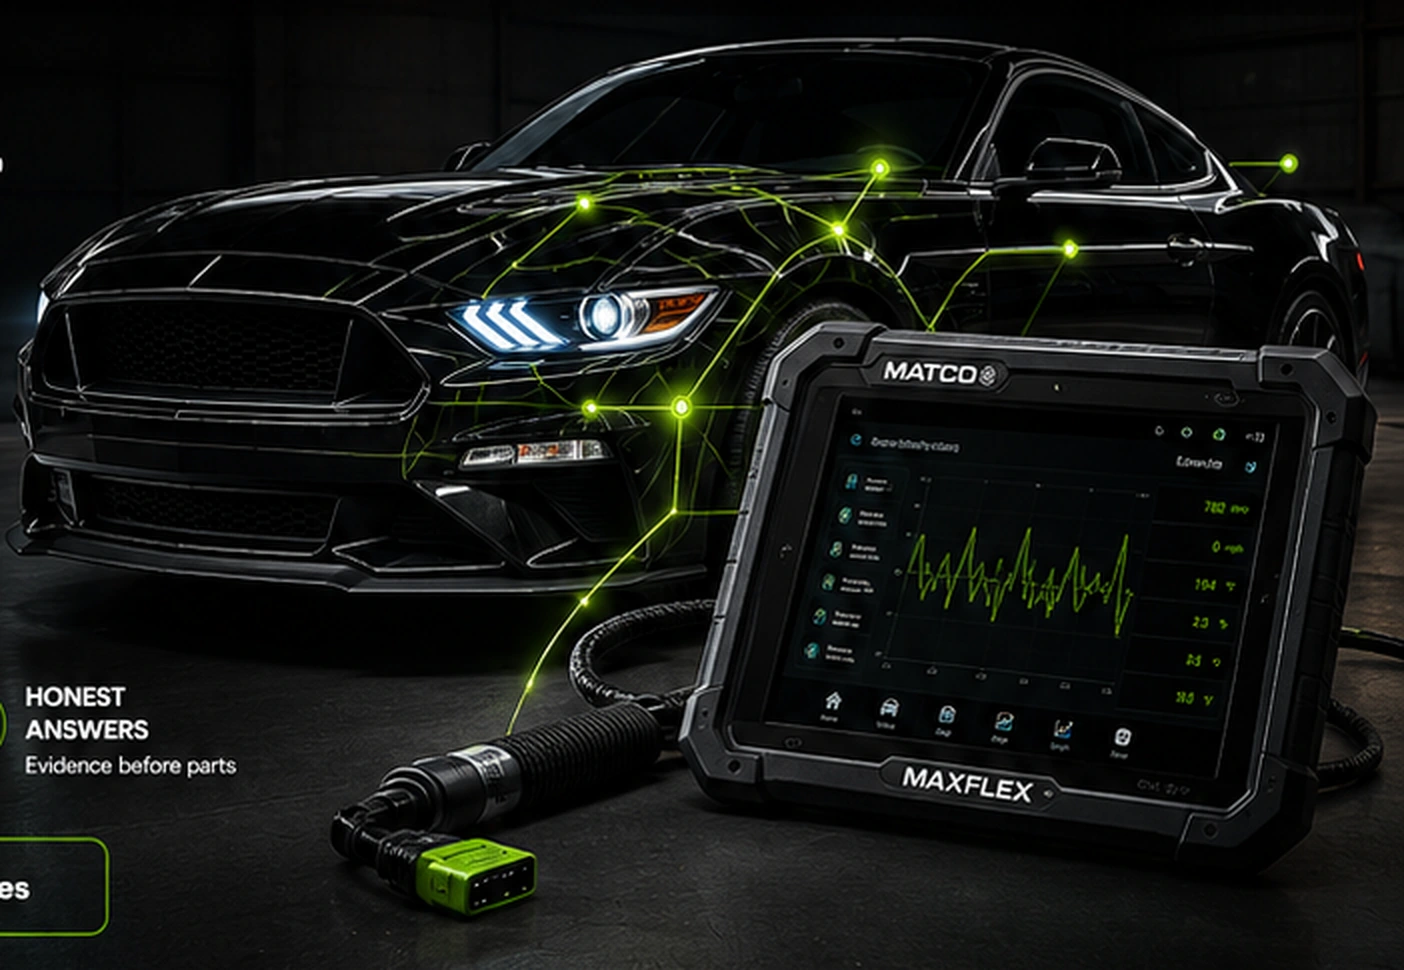
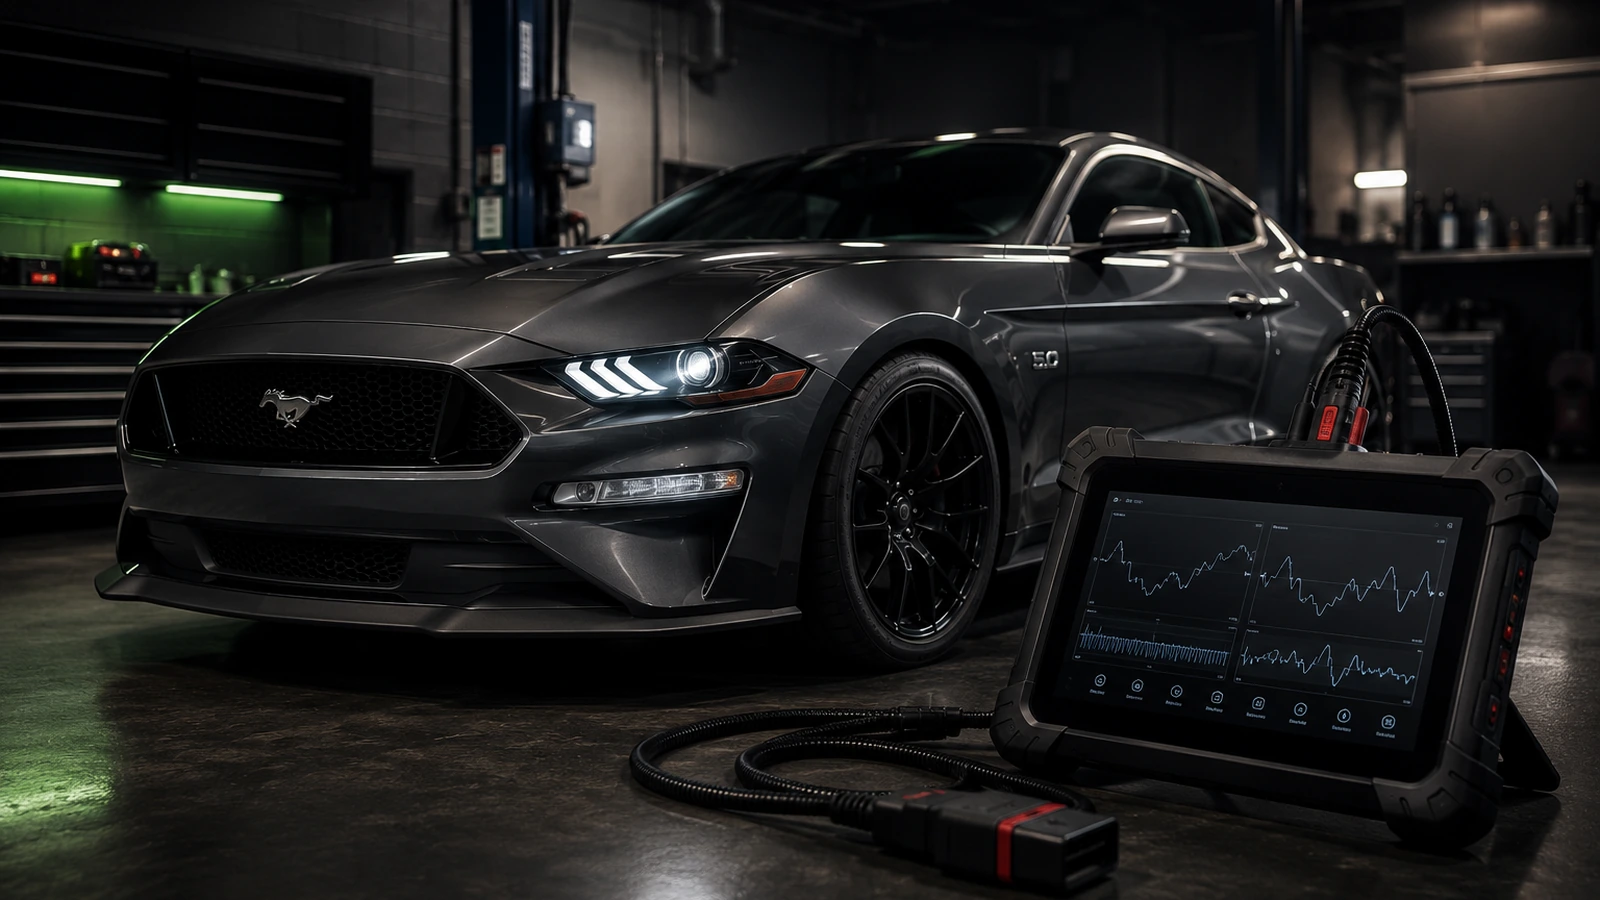
Add files via upload

diff --git a/index.html b/index.html
@@ -160,6 +160,48 @@ footer ul{list-style:none;display:grid;gap:7px}
  .mobile-call{position:fixed;left:14px;right:14px;bottom:14px;z-index:1000;display:flex;align-items:center;justify-content:center;min-height:54px;border-radius:8px;background:var(--green);color:#0b1206;font-weight:900;box-shadow:0 14px 35px rgba(0,0,0,.38)}
  body{padding-bottom:76px}
 }
+
+/* Realistic hero photo */
+.photo-hero{
+  min-height:500px;
+  display:flex;
+  align-items:center;
+}
+.hero-photo-wrap{
+  position:relative;
+  width:100%;
+  overflow:hidden;
+  border:1px solid rgba(126,217,0,.2);
+  border-radius:22px;
+  background:#070907;
+  box-shadow:0 30px 60px rgba(0,0,0,.42);
+}
+.hero-photo-wrap img{
+  width:100%;
+  height:500px;
+  object-fit:cover;
+  object-position:center;
+}
+.photo-overlay{
+  position:absolute;
+  inset:0;
+  pointer-events:none;
+  background:
+    linear-gradient(90deg,rgba(5,7,5,.18),transparent 30%),
+    radial-gradient(circle at 78% 60%,rgba(126,217,0,.08),transparent 28%);
+}
+@media(max-width:1050px){
+  .photo-hero{min-height:auto}
+  .hero-photo-wrap img{height:auto;min-height:410px}
+}
+@media(max-width:720px){
+  .hero-photo-wrap{border-radius:15px}
+  .hero-photo-wrap img{
+    min-height:300px;
+    object-position:58% center;
+  }
+}
+
 </style>
 </head>
 <body>
@@ -186,56 +228,10 @@ footer ul{list-style:none;display:grid;gap:7px}
       <div class="actions"><a class="btn primary" href="#contact">Schedule Diagnostic</a><a class="btn secondary" href="#services">View Services</a></div>
     </div>
 
-    <div class="hero-visual" aria-label="Vehicle diagnostic illustration">
-      <div class="car-stage">
-        <svg viewBox="0 0 900 520" aria-hidden="true">
-          <defs>
-            <linearGradient id="body" x1="0" y1="0" x2="1" y2="1">
-              <stop offset="0" stop-color="#3b453c"/>
-              <stop offset=".45" stop-color="#111611"/>
-              <stop offset="1" stop-color="#040604"/>
-            </linearGradient>
-            <linearGradient id="glass" x1="0" y1="0" x2="1" y2="1">
-              <stop offset="0" stop-color="#2c4432"/>
-              <stop offset="1" stop-color="#070a08"/>
-            </linearGradient>
-          </defs>
-          <ellipse cx="445" cy="445" rx="350" ry="22" fill="rgba(0,0,0,.55)"/>
-          <path d="M88 330c34-75 99-126 187-157l121-82h206c95 17 166 72 207 151l57 22 22 90-40 59H80l-42-48 19-45z" fill="url(#body)" stroke="#5b675d" stroke-width="5"/>
-          <path d="M306 170l119-64h167c74 17 124 55 164 119H238z" fill="url(#glass)" stroke="#67736a" stroke-width="4"/>
-          <path d="M425 108v116M594 108l57 116" stroke="#708078" stroke-width="4"/>
-          <path d="M91 339h190l69 39h378l72-54 77 7" fill="none" stroke="#657168" stroke-width="5"/>
-          <circle cx="241" cy="390" r="77" fill="#050605" stroke="#3a433b" stroke-width="7"/>
-          <circle cx="241" cy="390" r="42" fill="#39413a" stroke="#a3aaa5" stroke-width="6"/>
-          <circle cx="727" cy="390" r="77" fill="#050605" stroke="#3a433b" stroke-width="7"/>
-          <circle cx="727" cy="390" r="42" fill="#39413a" stroke="#a3aaa5" stroke-width="6"/>
-          <path d="M699 307l155-3-32 51-123 16z" fill="#e3eee6" stroke="#718079" stroke-width="4"/>
-          <path d="M711 312h108l-22 31-80 10z" fill="#b9e8ff"/>
-          <path d="M715 312l34 39M748 312l31 36M781 312l27 29" stroke="#4eb5ff" stroke-width="7"/>
-          <g stroke="#7ed900" stroke-width="3" fill="none" opacity=".78">
-            <path d="M283 202l54 86 96 39 103-72 105 32 88-58"/>
-            <path d="M337 288l-18 92M433 327l21 63M536 255l21 122M641 287l42 92"/>
-          </g>
-          <g fill="#7ed900">
-            <circle cx="283" cy="202" r="6"/><circle cx="433" cy="327" r="6"/><circle cx="641" cy="287" r="6"/><circle cx="729" cy="229" r="6"/>
-          </g>
-        </svg>
-      </div>
-      <div class="scan-card">
-        <div class="scan-top">MATCO MAXFLEX <span>CONNECTED</span></div>
-        <div class="scan-screen">
-          <div class="scan-grid">
-            <span>Engine RPM</span><b>782 rpm</b>
-            <span>Vehicle Speed</span><b>0 mph</b>
-            <span>Coolant Temp</span><b>194 °F</b>
-            <span>Battery Voltage</span><b>14.1 V</b>
-          </div>
-          <div class="wave">
-            <svg viewBox="0 0 400 80" preserveAspectRatio="none">
-              <polyline points="0,55 24,54 43,44 58,48 78,27 95,60 116,39 137,47 155,22 176,56 198,36 220,45 242,19 263,60 282,39 302,48 320,31 343,52 362,40 400,46" fill="none" stroke="#7ed900" stroke-width="4"/>
-            </svg>
-          </div>
-        </div>
+    <div class="hero-visual photo-hero" aria-label="Performance car connected to a professional diagnostic scan tool">
+      <div class="hero-photo-wrap">
+        <img src="assets/hero-car-scanner.webp" alt="Dark gray performance car connected to a professional diagnostic scanner in an automotive workshop">
+        <div class="photo-overlay"></div>
       </div>
     </div>
   </div>
